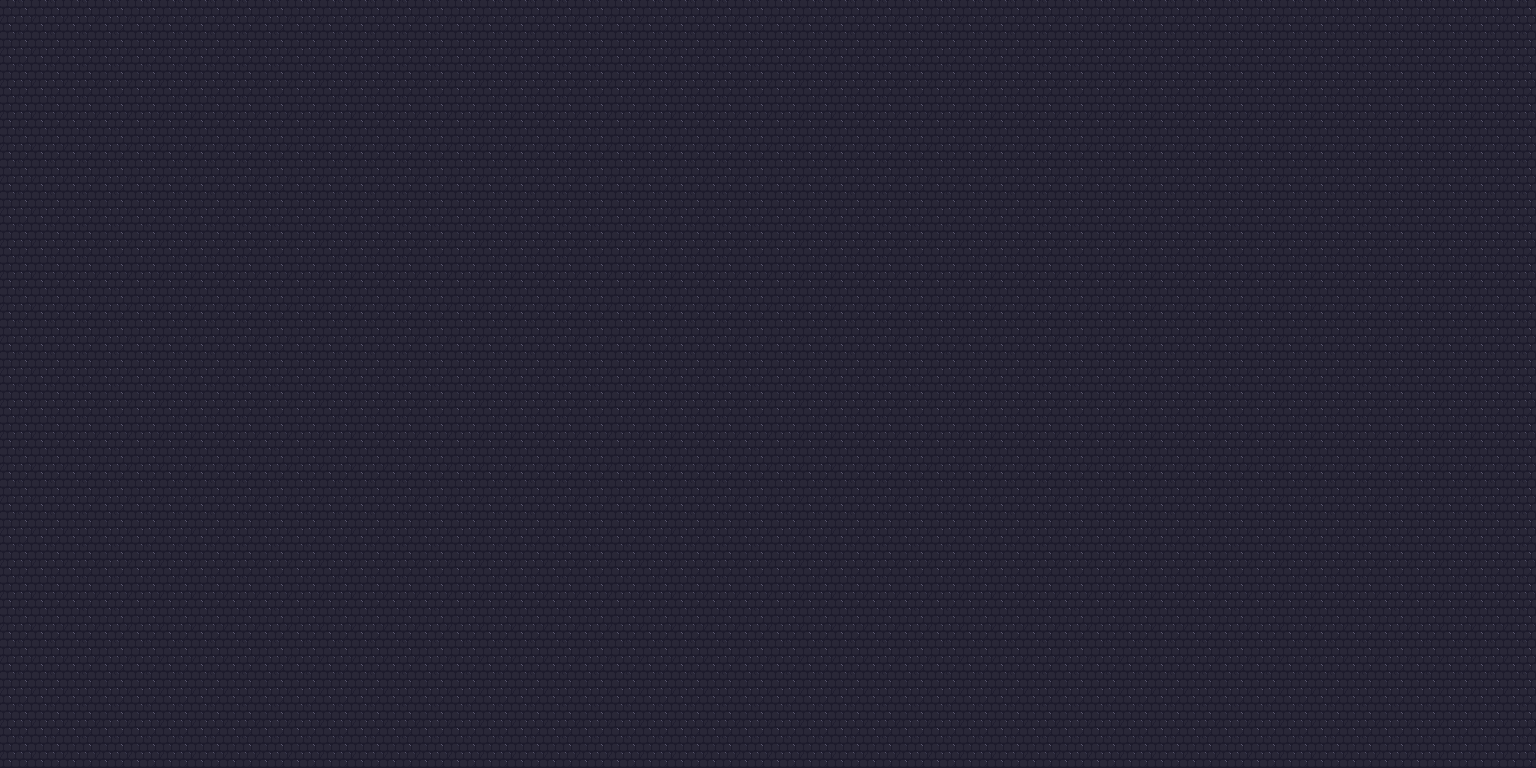
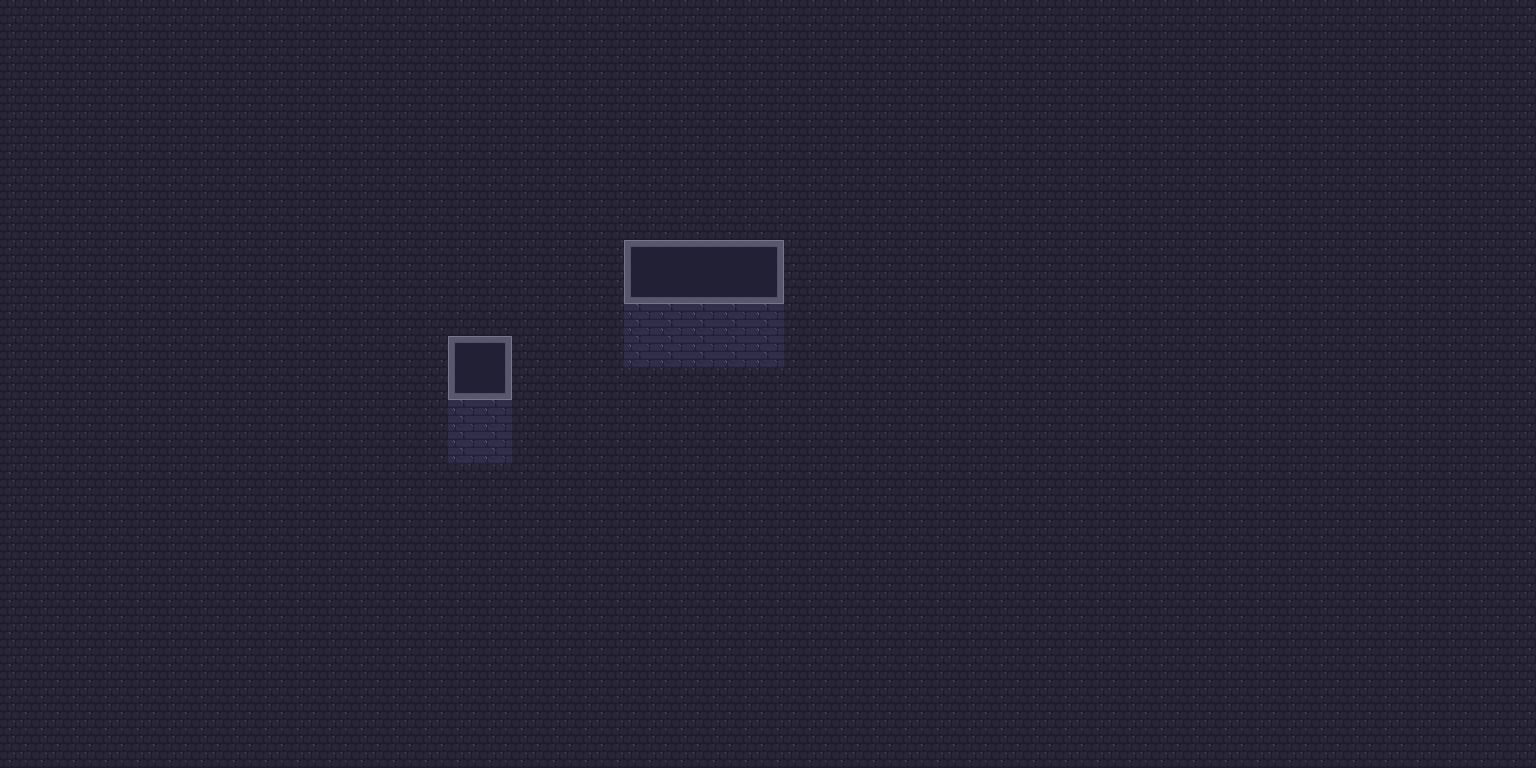
new textures

Changed region(s): [[0.4062, 0.3125, 0.5312, 0.4688], [0.2812, 0.4375, 0.3438, 0.5312]]

diff --git a/2DGame/src/_Scene.cpp b/2DGame/src/_Scene.cpp
@@ -81,7 +81,8 @@ void _Scene::initGL() {
     glMaterialfv(GL_FRONT, GL_SPECULAR,  mat_specular);
     glMaterialfv(GL_FRONT, GL_SHININESS, high_shininess);
 
-    myTex->loadTexture("images/map2.png");
+    myTex->loadTexture("images/map Layer 1.png");
+    myTex2->loadTexture("images/map Layer 2.png");
     mySprite->spriteInit("images/CharacterRotate.png", 7, 4);
 
     myCam->camInit();
@@ -104,6 +105,7 @@ void _Scene::drawScene() {
 
 
     // --- Textured background quad ---
+    /*
     glPushMatrix();
         glEnable(GL_TEXTURE_2D);
         glTexEnvi(GL_TEXTURE_ENV, GL_TEXTURE_ENV_MODE, GL_MODULATE);
@@ -119,7 +121,23 @@ void _Scene::drawScene() {
         glEnd();
         glDisable(GL_TEXTURE_2D);
     glPopMatrix();
+    */
 
+    glPushMatrix();
+        glEnable(GL_TEXTURE_2D);
+        glTexEnvi(GL_TEXTURE_ENV, GL_TEXTURE_ENV_MODE, GL_MODULATE);
+        myTex2->bindTexture();
+        glColor3f(1,1,1);
+        glScalef(3,-3,1);
+        glBegin(GL_QUADS);
+            glNormal3f(0.0f, 0.0f, 1.0f);
+            glTexCoord2f(0,0); glVertex3f(-8, -3.2, -8);
+            glTexCoord2f(1,0); glVertex3f( 8, -3.2, -8);
+            glTexCoord2f(1,1); glVertex3f( 8,  3.2, -8);
+            glTexCoord2f(0,1); glVertex3f(-8,  3.2, -8);
+        glEnd();
+        glDisable(GL_TEXTURE_2D);
+    glPopMatrix();
 
 
     glPushMatrix();

diff --git a/2DGame/src/_inputs.cpp b/2DGame/src/_inputs.cpp
@@ -20,9 +20,19 @@ void _inputs::keyPressed(_sprite* mySprite, float deltaTime)
     dx = 0.0f;
     dy = 0.0f;
 
+    // ---- Normalize ----
+    float length = sqrtf(dx * dx + dy * dy);
+    if (length > 0.0f) {
+        dx /= length;
+        dy /= length;
+    }
+
+
     // ---- Sprint ----
-    if (keys[16])
-        moveSpeed *= 3;
+    //if (keys[16])
+    //    moveSpeed *= 3;
+
+
 
     // ---- Forward / Back ----
     if (keys['W']) {
@@ -42,13 +52,6 @@ void _inputs::keyPressed(_sprite* mySprite, float deltaTime)
     if (keys['D']) {
         dx += 1;
         mySprite->actionTrigger = mySprite->IDLE_R;
-    }
-
-    // ---- Normalize ----
-    float length = sqrtf(dx * dx + dy * dy);
-    if (length > 0.0f) {
-        dx /= length;
-        dy /= length;
     }
 
     playerPos.x = mySprite->pos.x += dx * moveSpeed * deltaTime;

diff --git a/2DGame/include/_inputs.h b/2DGame/include/_inputs.h
@@ -42,6 +42,11 @@ class _inputs
         vec2 playerPos;
         float followSpeed;
 
+        bool isDashing = false;
+        float dashRemaining = 0.0f;
+        float dashSpeed = 25.0f;
+        vec2 dashDir;
+
         WPARAM wParam;
         LPARAM lParam;
 

diff --git a/2DGame/include/_Scene.h b/2DGame/include/_Scene.h
@@ -40,6 +40,7 @@ class _Scene
         int slices = 64;
         int stacks = 64;
         _textureLoader *myTex = new _textureLoader();
+        _textureLoader *myTex2 = new _textureLoader();
 
     private:
 };
